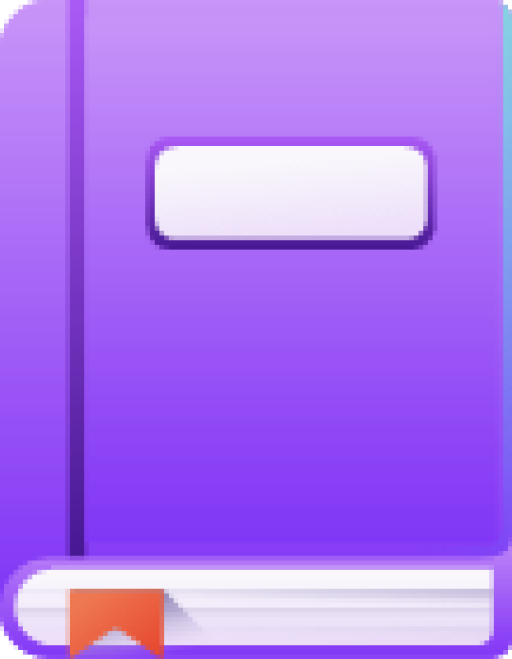
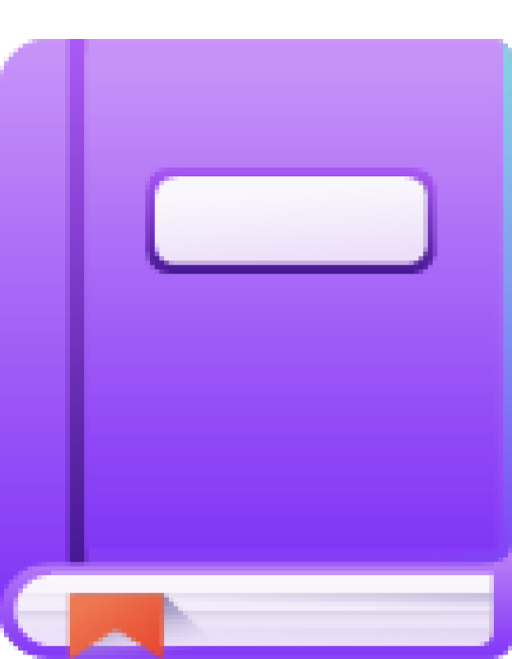
over all checking

diff --git a/index.html b/index.html
@@ -4,7 +4,7 @@
     <meta charset="UTF-8">
     <meta name="viewport" content="width=device-width, initial-scale=1.0">
     <title>E-School Resources</title>
-    <link rel="shortcut icon" href="icon/logo.png" type="image/x-icon">
+    <link rel="shortcut icon" href="icon/logo1.png" type="image/x-icon">
     <link rel="stylesheet" href="https://stackpath.bootstrapcdn.com/bootstrap/4.5.0/css/bootstrap.min.css" integrity="sha384-9aIt2nRpC12Uk9gS9baDl411NQApFmC26EwAOH8WgZl5MYYxFfc+NcPb1dKGj7Sk" crossorigin="anonymous">
     <link href="https://fonts.googleapis.com/css2?family=Poppins&display=swap" rel="stylesheet">
     <link rel="stylesheet" href="style.css">
@@ -22,16 +22,16 @@
         <div class="collapse navbar-collapse nav justify-content-end" id="navbarNav">
           <ul class="navbar-nav">
             <li class="nav-item active">
-              <a class="nav-link" href="#">Books <span class="sr-only">(current)</span></a>
+              <a class="nav-link" href="#">Home <span class="sr-only">(current)</span></a>
             </li>
             <li class="nav-item">
               <a class="nav-link" href="#">Courses</a>
             </li>
             <li class="nav-item">
-              <a class="nav-link" href="#">Others</a>
+              <a class="nav-link" href="#">Online Courses</a>
             </li>
             <li class="nav-item">
-                <a class="nav-link" href="#">Blog</a>
+                <a class="nav-link" href="#">Testimonial</a>
                 <li class="nav-item">
                 <button class="nav-button"> Sign in</button>
               </li>
@@ -67,7 +67,7 @@
     <section class="web-courses">
         <div class="container">
             <div class="row d-flex justify-content-center">
-                <div class="col-12 col-sm-12 col-md-6 col-lg-4 col-xl-3 align-items-center">
+                <div class="col-sm-12 col-md-6 col-lg-4 col-xl-3">
                         <div>
                             <div class="web-courses-item">
                                 <img src="icon/book.png" alt="">
@@ -76,7 +76,7 @@
                             </div>
                         </div>
                 </div>
-                <div class="col-12 col-sm-12 col-md-6 col-lg-4 col-xl-3 align-items-center">
+                <div class="col-sm-12 col-md-6 col-lg-4 col-xl-3">
                     <div>
                         <div class="web-courses-item">
                             <img src="icon/student.png" alt="">
@@ -85,7 +85,7 @@
                         </div>
                     </div>
                 </div>
-                <div class="col-12 col-sm-12 col-md-6 col-lg-4 col-xl-3 align-items-center">
+                <div class="col-sm-12 col-md-6 col-lg-4 col-xl-3">
                     <div>
                         <div class="web-courses-item">
                             <img src="icon/test.png" alt="">
@@ -94,7 +94,7 @@
                         </div>
                     </div>
                 </div>
-                <div class="col-12 col-sm-12 col-md-6 col-lg-4 col-xl-3 align-items-center">
+                <div class="col-sm-12 col-md-6 col-lg-4 col-xl-3">
                     <div>
                         <div class="web-courses-item">
                             <img src="icon/students.png" alt="">
@@ -113,7 +113,7 @@
         <h1> Online Courses </h1>
         <div class="container">
         <div class="card-deck">
-            <div class="card online-card align-items-center">
+            <div class="card online-courses">
               <img src="image/morder pyschology.png" class="img-fluid" alt="...">
                 <div class="card-body">
                   <h5 class="card-title">Modern Psychology</h5>
@@ -121,12 +121,12 @@
                   <button class="card-button">Buy Course</a></button>
                      <br><br><br>
                 <div class="more-info d-flex justify-content-between">
-                    <p><img src="icon/calendar.png" alt="">Start 20 April, 2021</p>
-                    <p><img src="icon/people.png" alt="">60 seats</p>
+                    <p><img src="icon/calendar.png" alt=""><span class="span-card">Start 20 April, 2021</span></p>
+                    <p><img src="icon/people.png" alt=""><span class="span-card">60 seats</span></p>
               </div>
             </div>
          </div>
-            <div class="card online-card align-items-center">
+            <div class="card online-courses">
               <img src="image/morder psyc.png" class="img-fluid" alt="...">
                  <div class="card-body">
                   <h5 class="card-title">Modern Psychology</h5>
@@ -134,12 +134,12 @@
                   <button class="card-button">Buy Course</a></button>
                 <br><br><br>
                 <div class="more-info d-flex justify-content-between">
-                    <p><img src="icon/calendar.png" alt="">Start 20 April, 2021</p>
-                    <p><img src="icon/people.png" alt="">60 seats</p>
+                    <p><img src="icon/calendar.png" alt=""><span class="span-card">Start 20 April, 2021</span></p>
+                    <p><img src="icon/people.png" alt=""><span class="span-card">60 seats</span></p>
                     </div>
               </div>
             </div>
-            <div class="card online-card align-items-center">
+            <div class="card online-courses">
               <img src="image/morder pychons.png" class="img-fluid" alt="...">
               <div class="card-body">
                 <h5 class="card-title">Modern Psychology</h5>
@@ -147,8 +147,8 @@
                 <button class="card-button">Buy Course</a></button>
                 <br><br><br>
                 <div class="more-info d-flex justify-content-between">
-                    <p><img src="icon/calendar.png" alt="">Start 20 April, 2021</p>
-                    <p><img src="icon/people.png" alt="">60 seats</p>
+                    <p><img src="icon/calendar.png" alt=""><span class="span-card">Start 20 April, 2021</span></p>
+                    <p><img src="icon/people.png" alt=""><span class="span-card">60 seats</span></p>
                     </div>
               </div>
             </div>
@@ -160,12 +160,12 @@
     <section class="web-testimonial">
         <h1> Testimonial </h1>
         <div class="container">
-            <div class="row no-gutters">
-                <div class="col-md-3">
-                    <img src="image/man.png" class="img-fluid" alt="">
+            <div class="row">
+                <div class="col-sm-12 col-md-3">
+                    <img src="image/man.png" class="" alt="">
                     </div>
-                <div class="col-md-9">
-                    <p></p> There are many variations of passages of Lorem Ipsum available, but the majority have suffered alteration in some form, by injected humour, or randomised words which don't look even slightly believable.</p>
+                <div class="col-sm-12 col-md-9">
+                    <p>There are many variations of passages of Lorem Ipsum available, but the majority have suffered alteration in some form, by injected humour, or randomised words which don't look even slightly believable.</p>
                 </div>
 
             </div>

diff --git a/style.css b/style.css
@@ -2,11 +2,21 @@ body {
     font-family: 'Poppins', sans-serif;
     margin: 0;
 }
+@media (min-width: 1200px){}
+.container, .container-lg, .container-md, .container-sm, .container-xl {
+    max-width: 1200px;
+}
 
 h1 {
     font-weight: bold;
     color: black;
     line-height: 60px;
+}
+
+h5 {
+    font-weight: bold;
+    color: white;
+    line-height: 30px;
 }
 p {
     color: #6C6B6B;
@@ -29,7 +39,7 @@ nav img{
 .web-header {
     background: linear-gradient(-45deg, #87e6cf, #f1a087, #f1eaab, #68c2e2);
     position: relative;
-    height: 600px;
+    height: 750px;
 }
 .color-p {
     color: #FD511A;
@@ -47,19 +57,18 @@ nav img{
 .web-banner img {
     vertical-align: middle;
     border-style: none;
-    width: 600px;
+    width: 650px;
 }
 .web-courses {
     margin: 50px 0px;
 }
 .web-courses-item img {
-    width: 70px;
+    width: 80px;
     height: auto;
     margin-bottom: 30px;
 }
 .web-courses-item {
     text-align: center;
-    width: 200px;
     background: #F8FFFB;
     border-radius: 10px;
     padding: 40px 0;
@@ -83,6 +92,27 @@ nav img{
 .online-courses img{
     width: 300px;
     border-radius: 11px;
+    margin: auto;
+    padding: 20px 0 0 0 
+}
+.card-title{
+    margin-top: 30px;
+}
+
+@media (min-width: 576px){
+
+}
+.card-deck .card {
+    -ms-flex: 1 0 0%;
+    flex: 1 0 0%;
+    margin-right: 15px;
+    margin-bottom: 15px;
+    margin-left: 15px;
+    border-radius: 20px;
+}
+.card-deck .card:hover {
+    background: #FFFFFF;
+    box-shadow: 0px 20px 40px rgba(0, 0, 0, 0.1);
 }
 .online-card {
     margin: 30px 0;
@@ -103,12 +133,6 @@ nav img{
     border-radius: 30px;
     border: none;
 }
-.card-body {
-    -ms-flex: 1 1 auto;
-    flex: 1 1 auto;
-    min-height: 1px;
-    padding: 1.25rem 1.25rem 0 1.25rem;
-}
 .web-testimonial h1 {
     text-align: center;
     margin-top: 150px;
@@ -120,19 +144,18 @@ nav img{
     display: block;
     margin: auto;
 }
-@media screen and (max-width: 992px) {
-    .web-testimonial section p {
-        text-align: center;
-    }
- }
-
-.col-md-3 {
-    flex: 0 0 25%;
-    max-width: 25%;
-    padding: 0 0 0 120px;
+.footer-menu .col-md-3 {
+    margin-top: 50px;
+    margin-bottom: 20px;
 }
-.col-md-9 {
-    padding: 0 200px 0 0;
+
+.footer-menu .col-md-4{
+    margin-top: 50px;
+    margin-bottom: 20px;
+}
+.footer-menu .col-md-2{
+    margin-top: 50px;
+    margin-bottom: 20px;
 }
 
 .footer-menu p {
@@ -148,18 +171,16 @@ nav img{
 }
 
 .footer-menu {
-    background: linear-gradient(-45deg, #242927, #30231f, #2c2913, #1a262b);
+    background: linear-gradient(-45deg, #343b38, #412f2a, #413c1d, #23353d);
     background-image: 400% 400%;
     position: relative;
-    padding: 20px 0;
-    height: 350px;
     color: #CDCDCD;
     text-align: center;
     margin-top: 80px;
 }
 footer {
     background: linear-gradient(-45deg, #242927, #30231f, #2c2913, #1a262b);
-    padding: 0 0 20px 0;
+    position: relative;
     color: #CDCDCD;
     text-align: center;
 }
